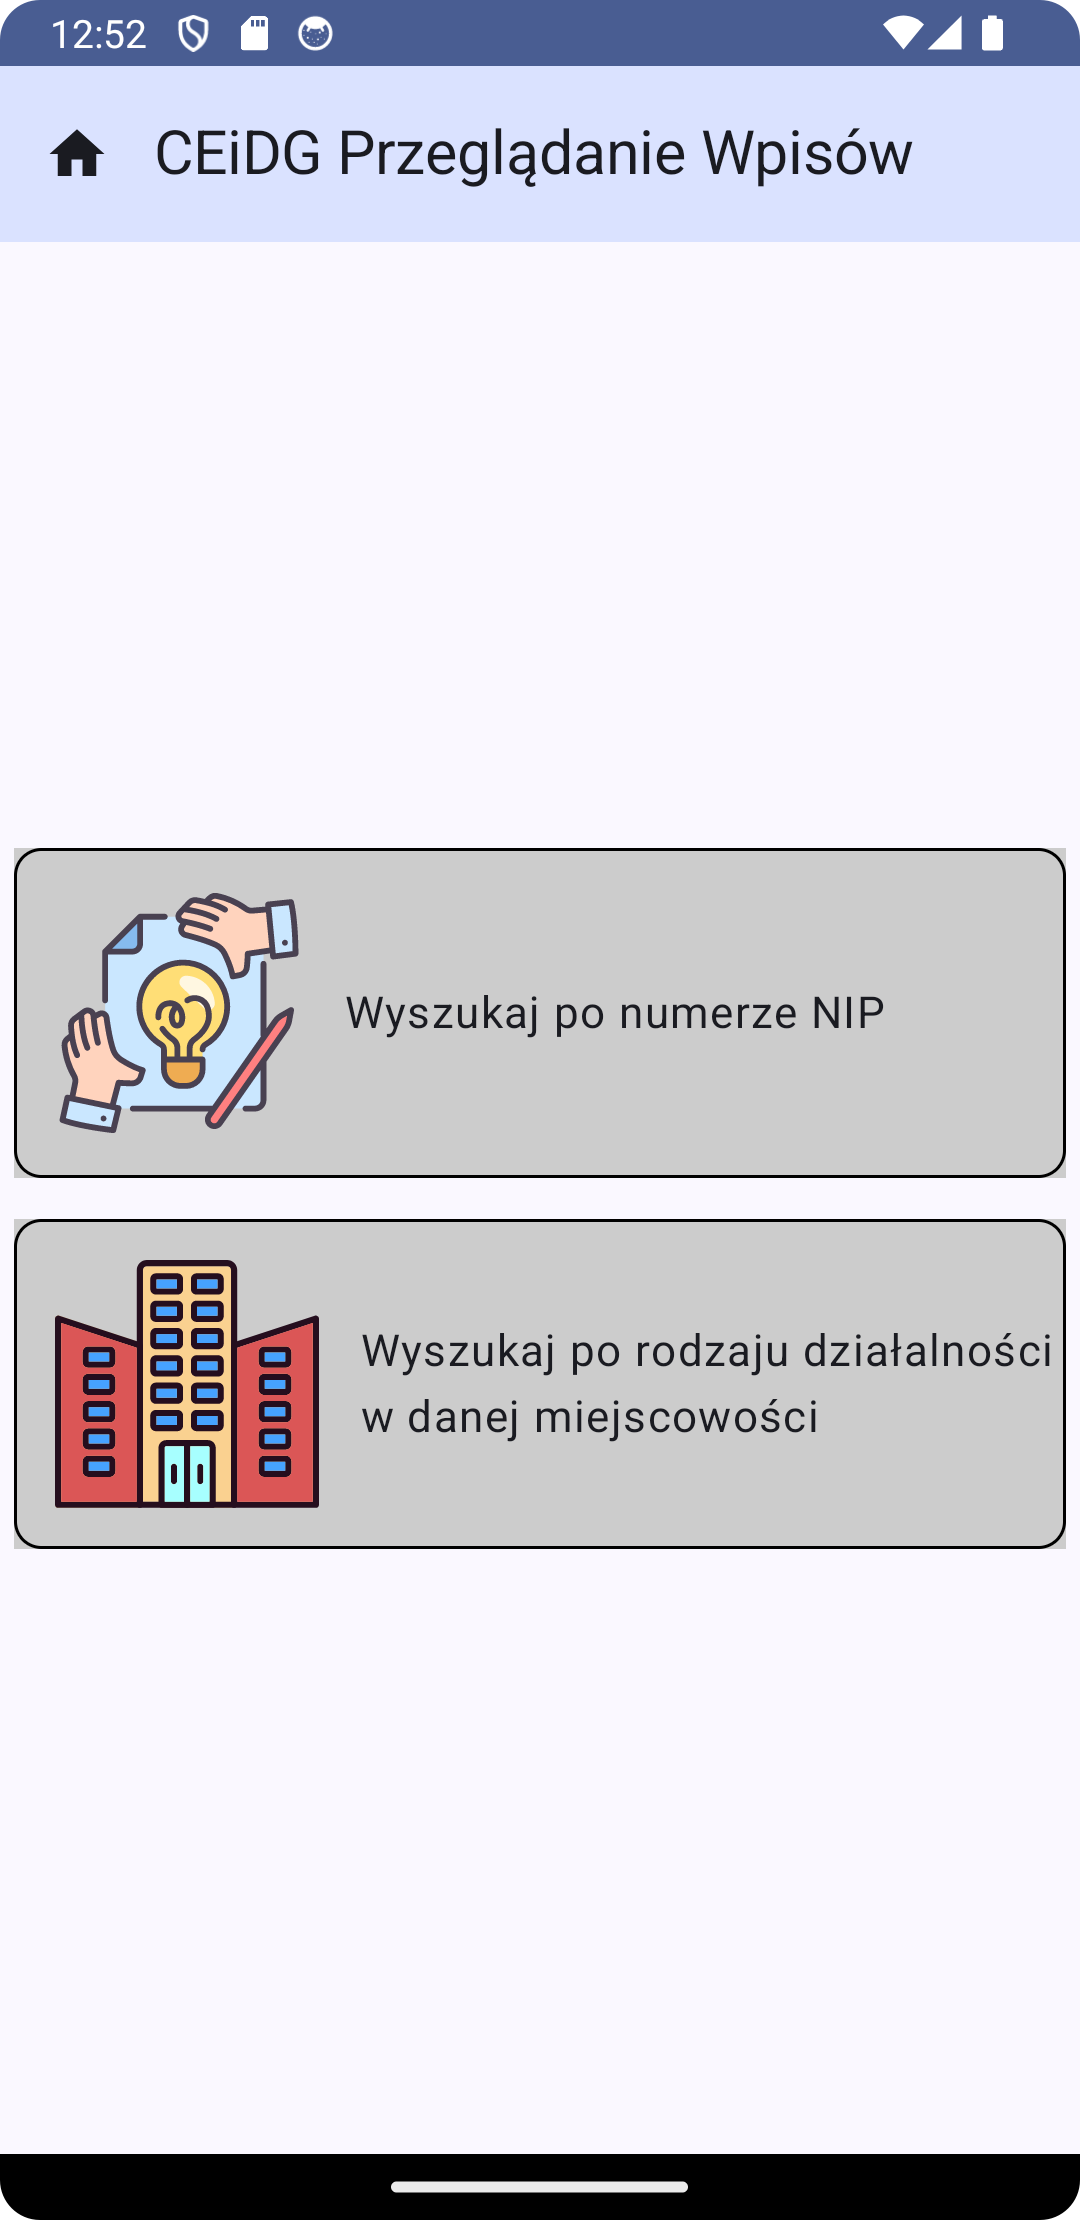
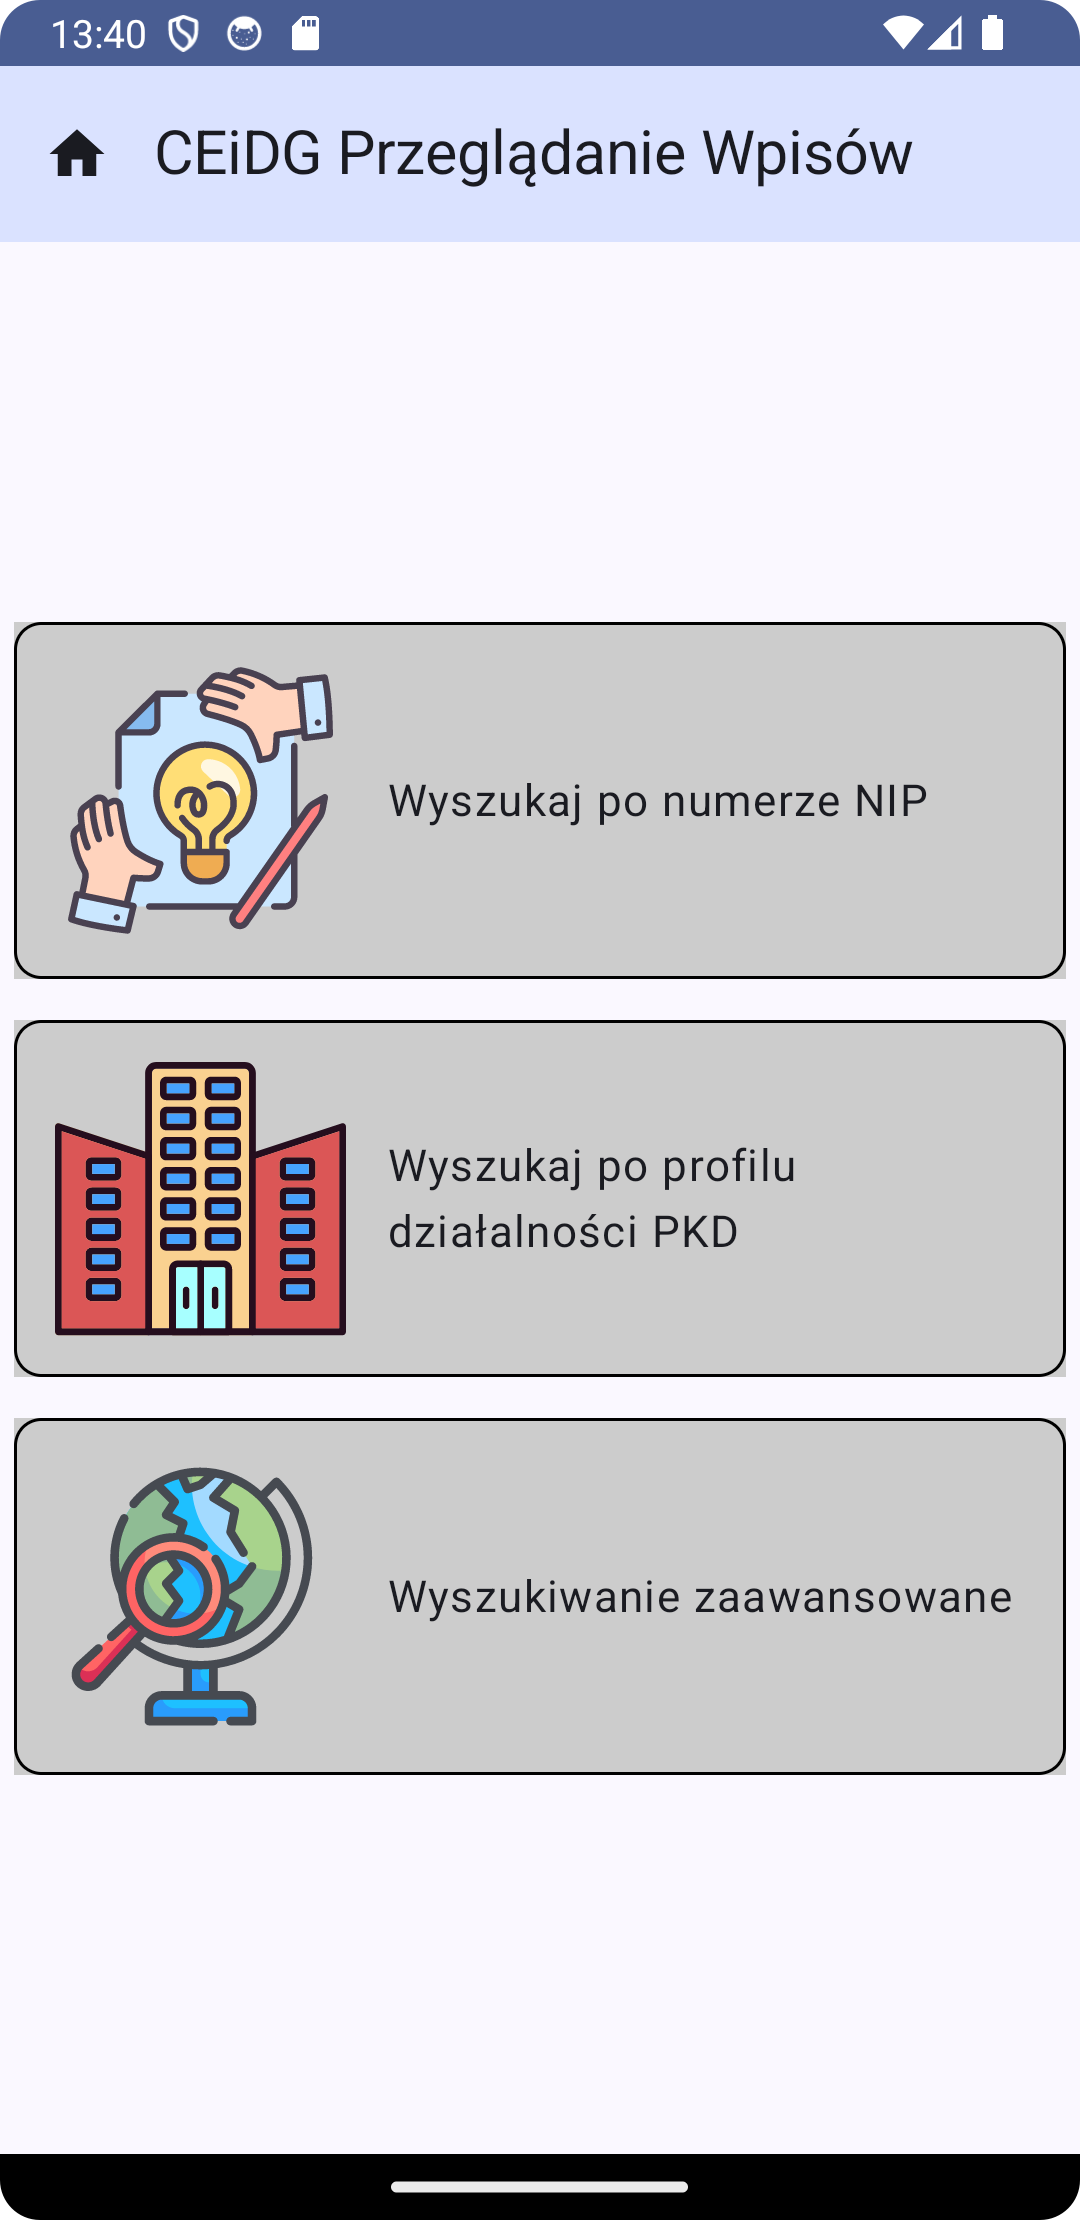
updated README.md file

diff --git a/README.md b/README.md
@@ -1,7 +1,7 @@
 # CEiDG Search Application
 
 ### Summary
-Find Polish company by Taxpayer\`s Identification Number (NIP), type of activity (PKD code) and city.
+Find Polish companies by different criteria, such as Taxpayer\`s Identification Number (NIP), type of activity (PKD code), city...
 
 ### How to Use
 This project required CEiDG API key, get for free [here](https://dane.biznes.gov.pl/).
@@ -20,3 +20,4 @@ This project was created with [Kotlin](https://kotlinlang.org/) and [Jetpack Com
 ![Alt text](github/screenshot_nip_result_local.png "Search by NIP Screen Localization")
 ![Alt text](github/screenshot_pkd.png "Search by PKD Screen")
 ![Alt text](github/screenshot_pkd_result.png "Search by PKD Result Screen")
+![Alt text](github/screenshot_advanced_search.png "Advanced Search Screen")
